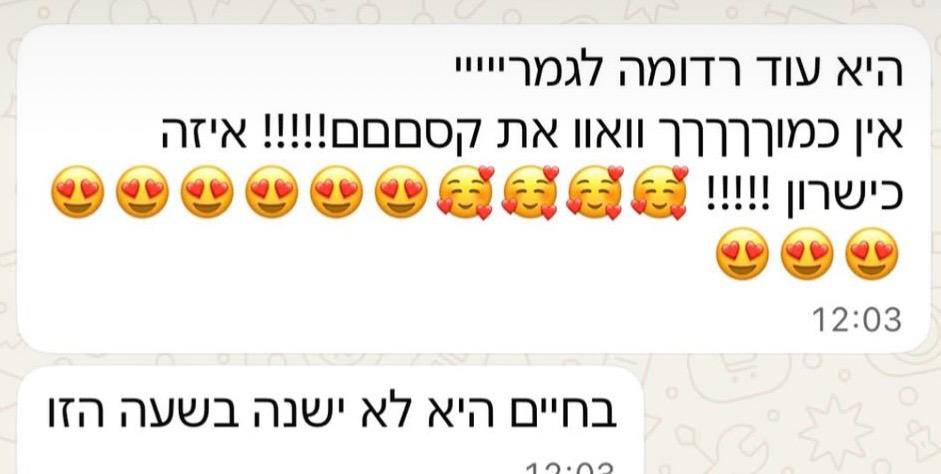
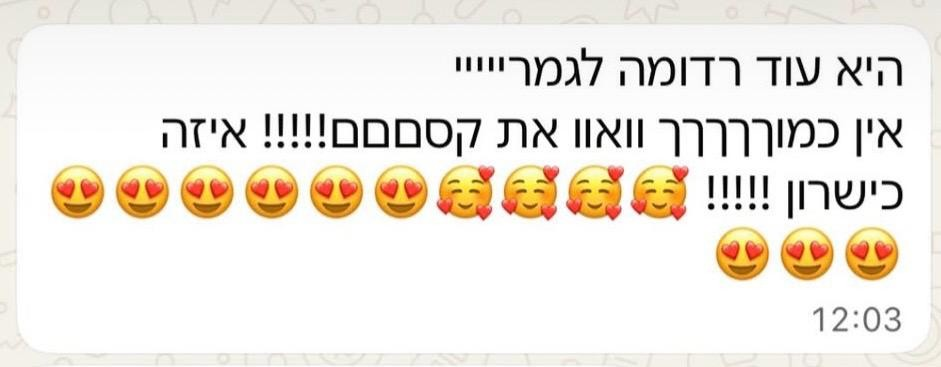
feat(testimonials): add wa-6 note, refresh wa-1 & wa-5
- Add new WhatsApp testimonial screenshot (testimonial-wa-6)
- Update existing wa-1 and wa-5 screenshots
- Ignore vite config timestamp build artifacts

diff --git a/src/components/Testimonials.tsx b/src/components/Testimonials.tsx
@@ -4,6 +4,7 @@ import wa2 from '../assets/testimonial-wa-2.jpg'
 import wa3 from '../assets/testimonial-wa-3.jpg'
 import wa4 from '../assets/testimonial-wa-4.jpg'
 import wa5 from '../assets/testimonial-wa-5.jpg'
+import wa6 from '../assets/testimonial-wa-6.jpeg'
 
 // Hebrew screenshots lead; the Spanish one (wa1) is placed last.
 const screenshots = [
@@ -11,13 +12,14 @@ const screenshots = [
   { src: wa3, alt: 'המלצה מאמא במימו - צילום מסך מוואטסאפ' },
   { src: wa4, alt: 'המלצה מאמא במימו - צילום מסך מוואטסאפ' },
   { src: wa5, alt: 'המלצה מאמא במימו - צילום מסך מוואטסאפ' },
+  { src: wa6, alt: 'המלצה מאמא במימו - צילום מסך מוואטסאפ' },
   { src: wa1, alt: 'המלצה מאמא במימו - צילום מסך מוואטסאפ' },
 ]
 
 // Gentle alternating tilts (desktop only - md:). On mobile the notes stay straight
 // and full-width so the screenshot text is comfortably readable. Static class
 // strings so Tailwind's JIT picks them up.
-const tiltClasses = ['md:-rotate-3', 'md:rotate-2', 'md:-rotate-2', 'md:rotate-3', 'md:-rotate-2']
+const tiltClasses = ['md:-rotate-3', 'md:rotate-2', 'md:-rotate-2', 'md:rotate-3', 'md:-rotate-2', 'md:rotate-3']
 
 export default function Testimonials() {
   return (
